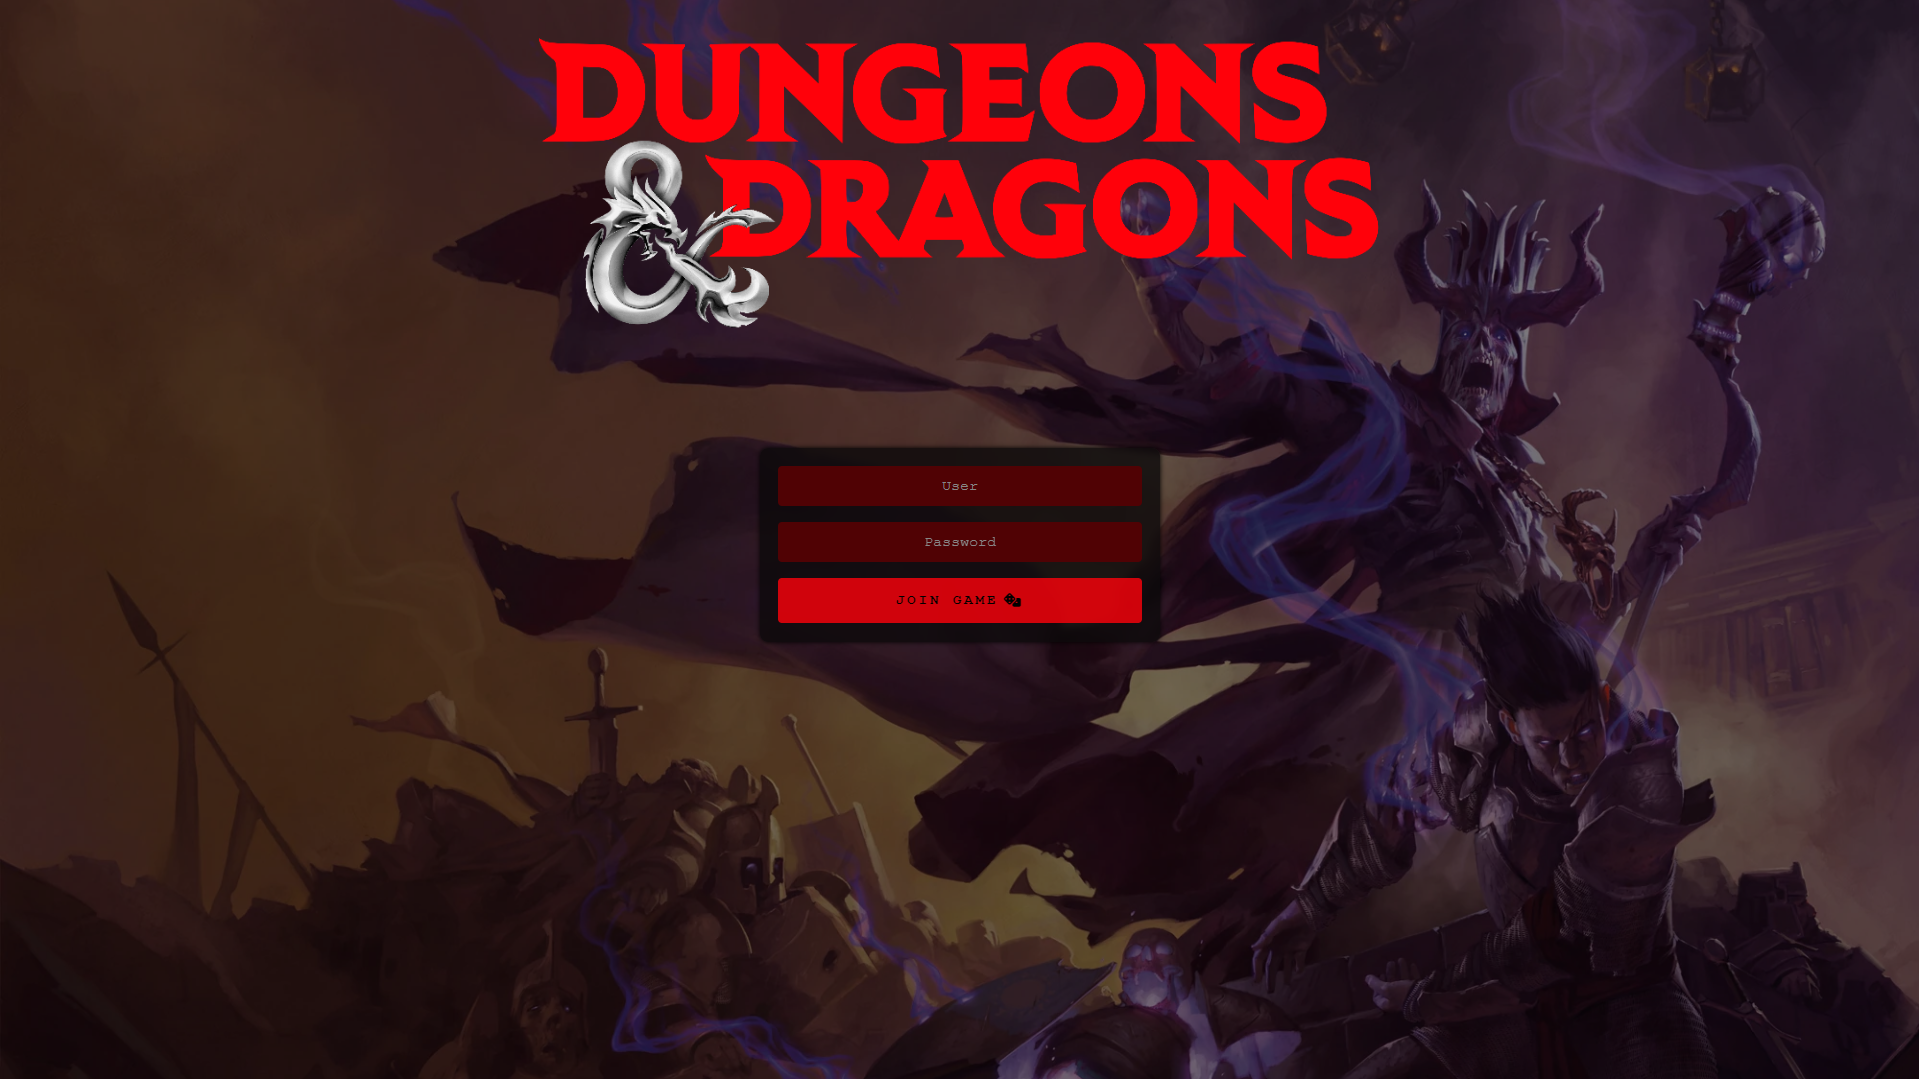
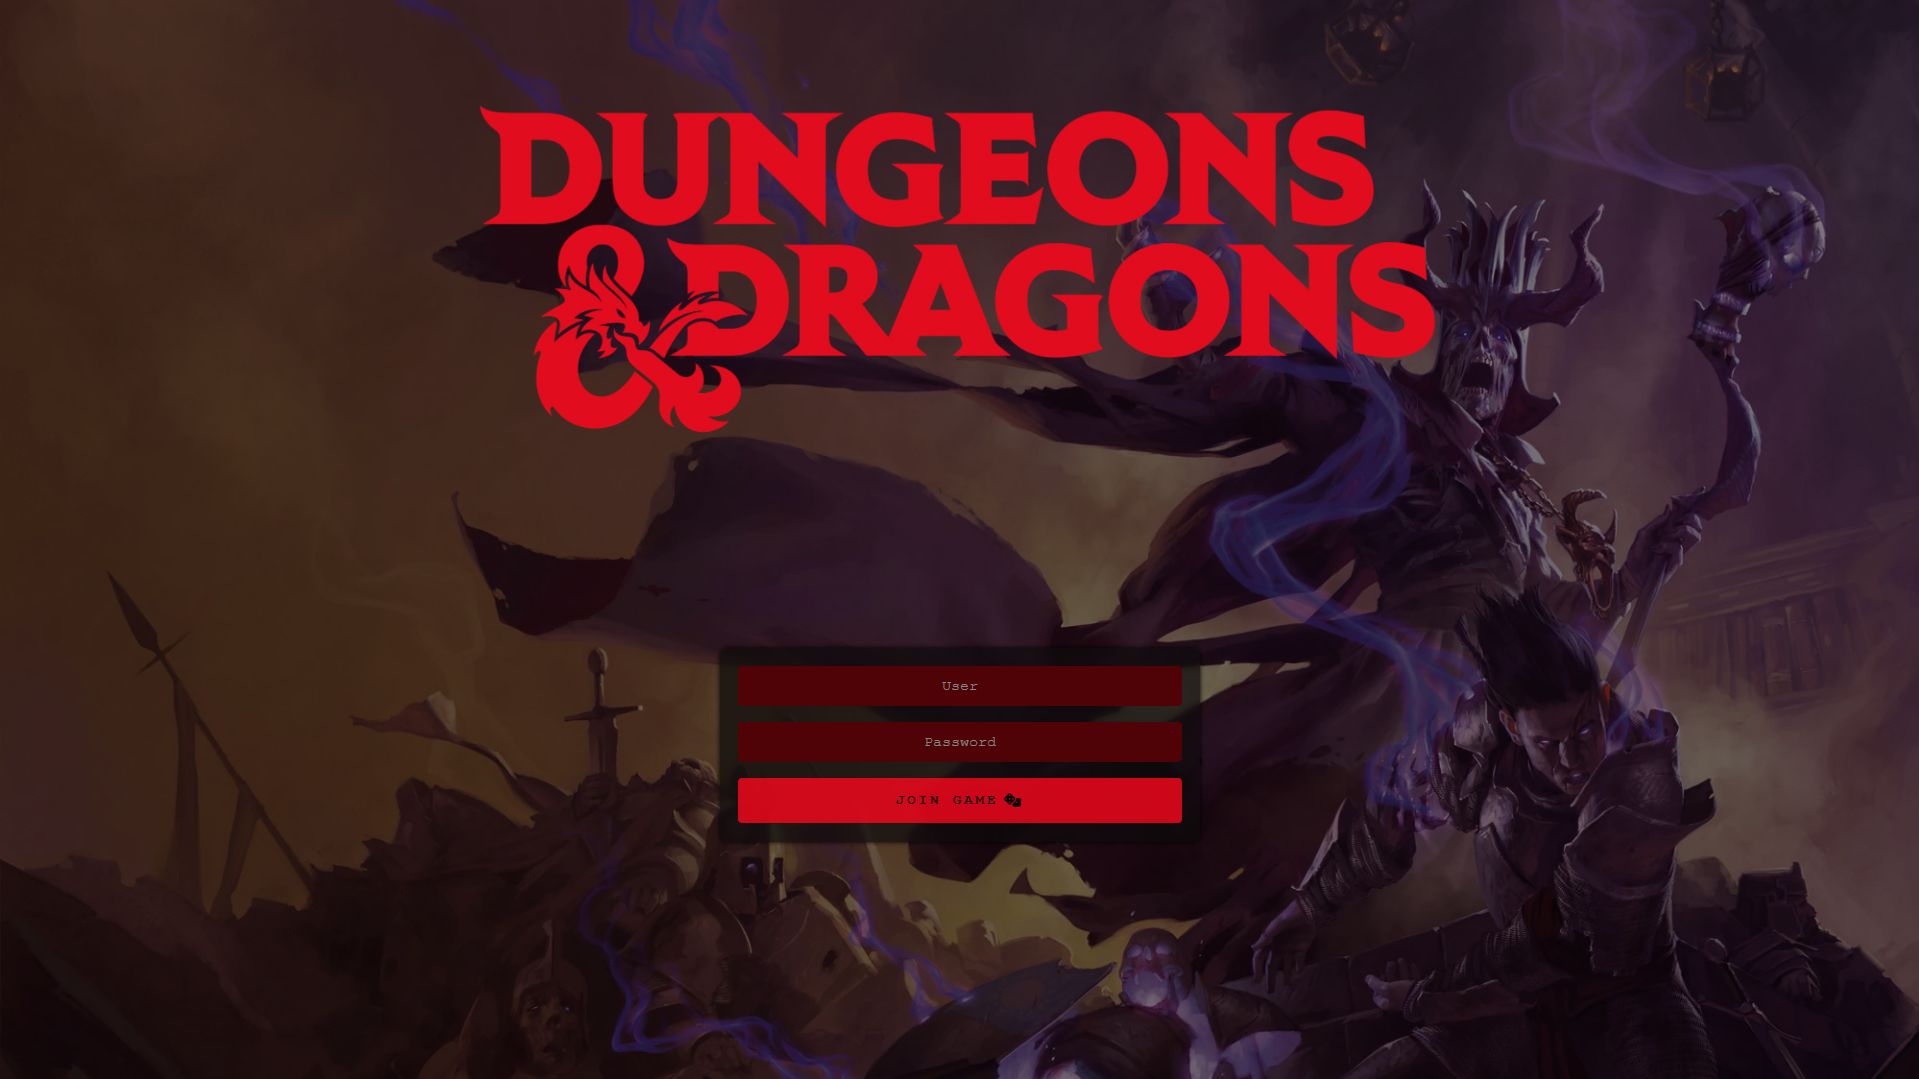
updated d&d

Changed region(s): [[0.246, 0.0306, 0.7686, 0.3976], [0.3689, 0.3976, 0.6456, 0.7952]]

diff --git a/dungeons-and-dragons/foundry2.css b/dungeons-and-dragons/foundry2.css
@@ -1,61 +1,79 @@
 /*
 FoundryVTT Login Pages made by Doluprane
 Kind of a fork from github.com/dandln
-based on code by u/bass-blowfish
+Based on code by u/bass-blowfish
 
 Currently working in v11
+Will be tested in v12 asap
 */
 
 /* CONFIGURATION AREA */
 body.auth, #watermark {
   --login-world-logo: url("/d&d-logo.webp");
[1 lines of base64/hex data omitted]
-  --login-footer-logo-height: 25px;
+  --login-world-logo-size:50%;
   --login-button-color: rgba(255, 1, 10, 0.8);
   --login-button-color-hover: rgba(255, 1, 10, 1.0);
   --login-button-text-color: black;
-  --login-show-text-title: none;
   --login-app-background-color: rgba(11, 9, 10, 0.8);
   --login-input-text-background-color: rgba(80, 2, 4, 1.0);
   --login-input-text-color: white;
   --login-input-text-color-placeholder: rgba(135, 135, 135, 1.0);
-  --font: Trixie,'Courier New',Courier,monospace;
+  --font: Trixie,'Courier New',Courier,monospace
 }
 
-body.auth .app {
+/* FORM */
+body.auth .custom-app {
+  padding:1.15rem;
   box-shadow:0 0 5px black;
-  background:var(--login-app-background-color)
+  background:var(--login-app-background-color);
+  width:25%;
+  position:fixed!important;
+  top:60%;
+  left:50%;
+  transform:translate(-50%, -50%);
+  flex:none;
+  gap:1rem;
+  max-width: var(--maxWidth);
+  max-height: 100%;
+  display: flex;
+  flex-direction: column;
+  flex-wrap: nowrap;
+  justify-content: flex-start;
+  backdrop-filter: blur(4px);
+  border-radius: 8px;
+  z-index: var(--z-index-app);
+  transform-origin: top left;
+  -webkit-animation: slide-in-bck-bottom 1.5s cubic-bezier(0.250, 0.460, 0.450, 0.940) both;
+  animation: slide-in-bck-bottom 1.5s cubic-bezier(0.250, 0.460, 0.450, 0.940) both
 }
-  
-body.auth #main-header {
+
+/* BACKGROUND */
+body.background {
+  -webkit-animation: fade-in 2s cubic-bezier(0.390, 0.575, 0.565, 1.000) both;
+  animation: fade-in 2s cubic-bezier(0.390, 0.575, 0.565, 1.000) both
+}
+
+/* CUSTOM HEADER WITH WORLD LOGO */
+body.auth #custom-header {
   background:var(--login-world-logo);
   background-repeat:no-repeat;
-  background-size:45%;
-  background-position:center;
+  background-size:var(--login-world-logo-size);
+  background-position-x:center;
+  background-position-y:center;
   height:120px!important;
   border:none;
-  box-shadow:none
-}
-  
-body.auth #watermark::before {
-  display:block;
-  content:" ";
-  background:var(--login-footer-logo);
-  background-size:contain;
-  background-repeat:no-repeat;
-  background-position:center;
-  width:var(--maxWidth);
-  height:var(--login-footer-logo-height);
-  margin-top:calc(calc(var(--login-footer-logo-height) * -1) + 25px);
-  margin-bottom:5px
+  box-shadow:none;
+  position:fixed;  
+  top:7.5%; 
+  left:0;
+  width:100%;
+  height:35vh!important;
+  -webkit-animation: slide-in-bck-top 1.5s cubic-bezier(0.250, 0.460, 0.450, 0.940) both;
+  animation: slide-in-bck-top 1.5s cubic-bezier(0.250, 0.460, 0.450, 0.940) both;
 }
   
 body.join #join-game {
   grid-template-columns:1fr!important
-}
-  
-body.auth #main-header h1 {
-  display:var(--login-show-text-title)
 }
   
 #join-game {
@@ -133,22 +151,12 @@ body.auth #main-header h1 {
 #join-game button:focus {
   outline:none
 }
-  
+
+/* ADDING A DICE NEXT TO LABEL */  
 #join-game button[name="join"]:after {
   content:"\f522";
   padding-left:5px;
   font-family:'FontAwesome'
-}
-  
-#join-game button[name="shutdown"]:after {
-  content:"\f023";
-  padding-left:5px;
-  font-family:'FontAwesome'
-}
-  
-body.auth .app:not(.window-app) {
-  padding:1.15rem;
-  margin-top:4.5rem
 }
   
 #join-game select:required:invalid {
@@ -162,10 +170,82 @@ body.auth .app:not(.window-app) {
   text-align-last:center
 }
   
-body.auth label.icon, #join-game-world, #join-game-details, #join-game .divider, #join-game .return-setup, #join-game button[name="join"] i.fas.fa-check, #join-game button[name="shutdown"] .fas.fa-lock, #join-game select option:checked {
-  display:none
-}
-  
 #join-game input::placeholder, #join-game select option:disabled {
   color:var(--login-input-text-color-placeholder)
+}
+
+body.auth #main-header h1, body.auth label.icon, #join-game-world, #join-game-details, #join-game .divider, #join-game .return-setup, #join-game button[name="join"] i.fas.fa-check, #join-game button[name="shutdown"] .fas.fa-lock, #join-game select option:checked {
+  display:none
+}
+
+/* CSS ANIMATIONS */
+
+/* USED BY LOG IN FORM */
+@-webkit-keyframes slide-in-bck-bottom {
+  0% {
+    -webkit-transform:  translate(-50%, 500px);
+            transform:  translate(-50%, 500px);
+    opacity: 0;
+  }
+  100% {
+    -webkit-transform:  translate(-50%, 0);
+            transform:  translate(-50%, 0);
+    opacity: 1;
+  }
+}
+@keyframes slide-in-bck-bottom {
+  0% {
+    -webkit-transform:  translate(-50%, 500px);
+            transform:  translate(-50%, 500px);
+    opacity: 0;
+  }
+  100% {
+    -webkit-transform:  translate(-50%, 0);
+            transform:  translate(-50%, 0);
+    opacity: 1;
+  }
+}
+
+/* USED BY WALLPAPER / BACKGROUND */
+@-webkit-keyframes fade-in {
+  0% {
+    opacity: 0;
+  }
+  100% {
+    opacity: 1;
+  }
+}
+@keyframes fade-in {
+  0% {
+    opacity: 0;
+  }
+  100% {
+    opacity: 1;
+  }
+}
+
+/* USED BY HEADER */
+@-webkit-keyframes slide-in-bck-top {
+  0% {
+    -webkit-transform: translateZ(700px) translateY(-300px);
+            transform: translateZ(700px) translateY(-300px);
+    opacity: 0;
+  }
+  100% {
+    -webkit-transform: translateZ(0) translateY(0);
+            transform: translateZ(0) translateY(0);
+    opacity: 1;
+  }
+}
+@keyframes slide-in-bck-top {
+  0% {
+    -webkit-transform: translateZ(700px) translateY(-300px);
+            transform: translateZ(700px) translateY(-300px);
+    opacity: 0;
+  }
+  100% {
+    -webkit-transform: translateZ(0) translateY(0);
+            transform: translateZ(0) translateY(0);
+    opacity: 1;
+  }
 }
